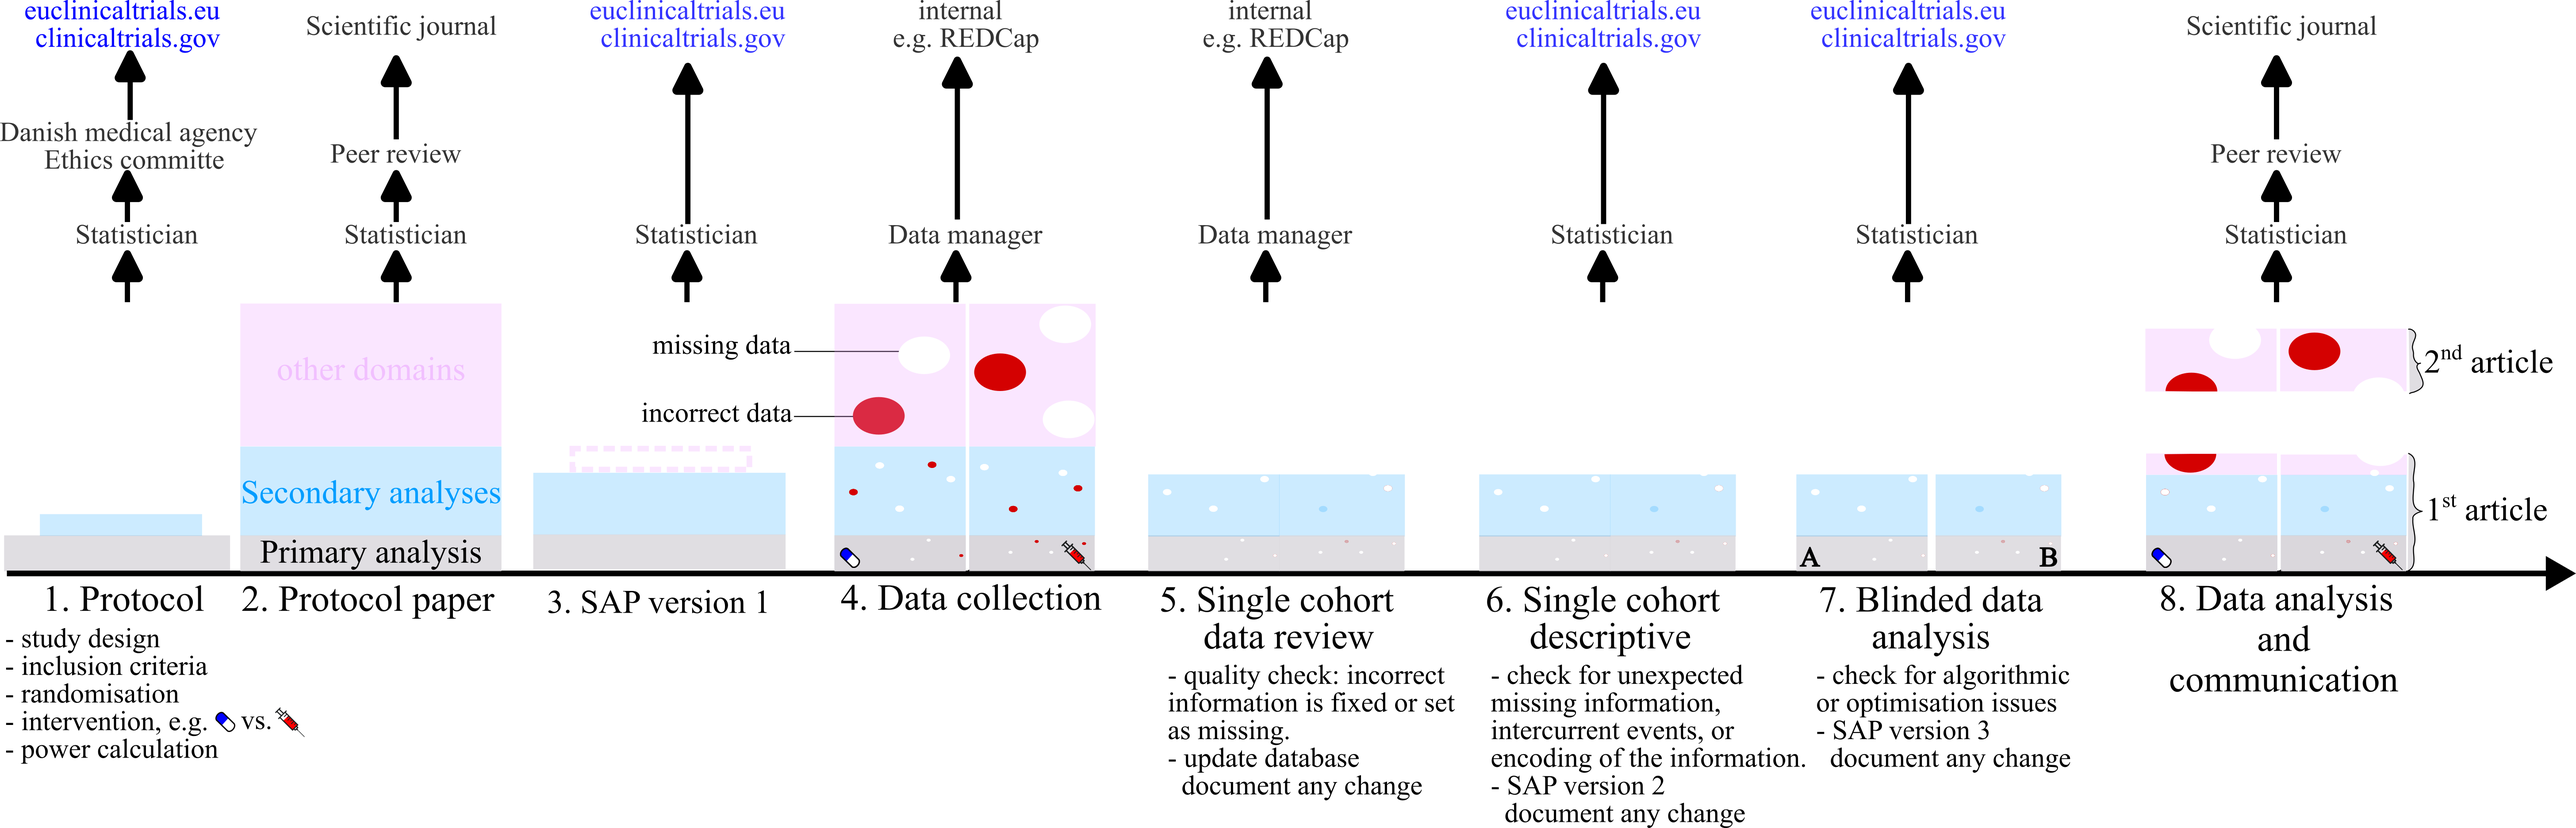
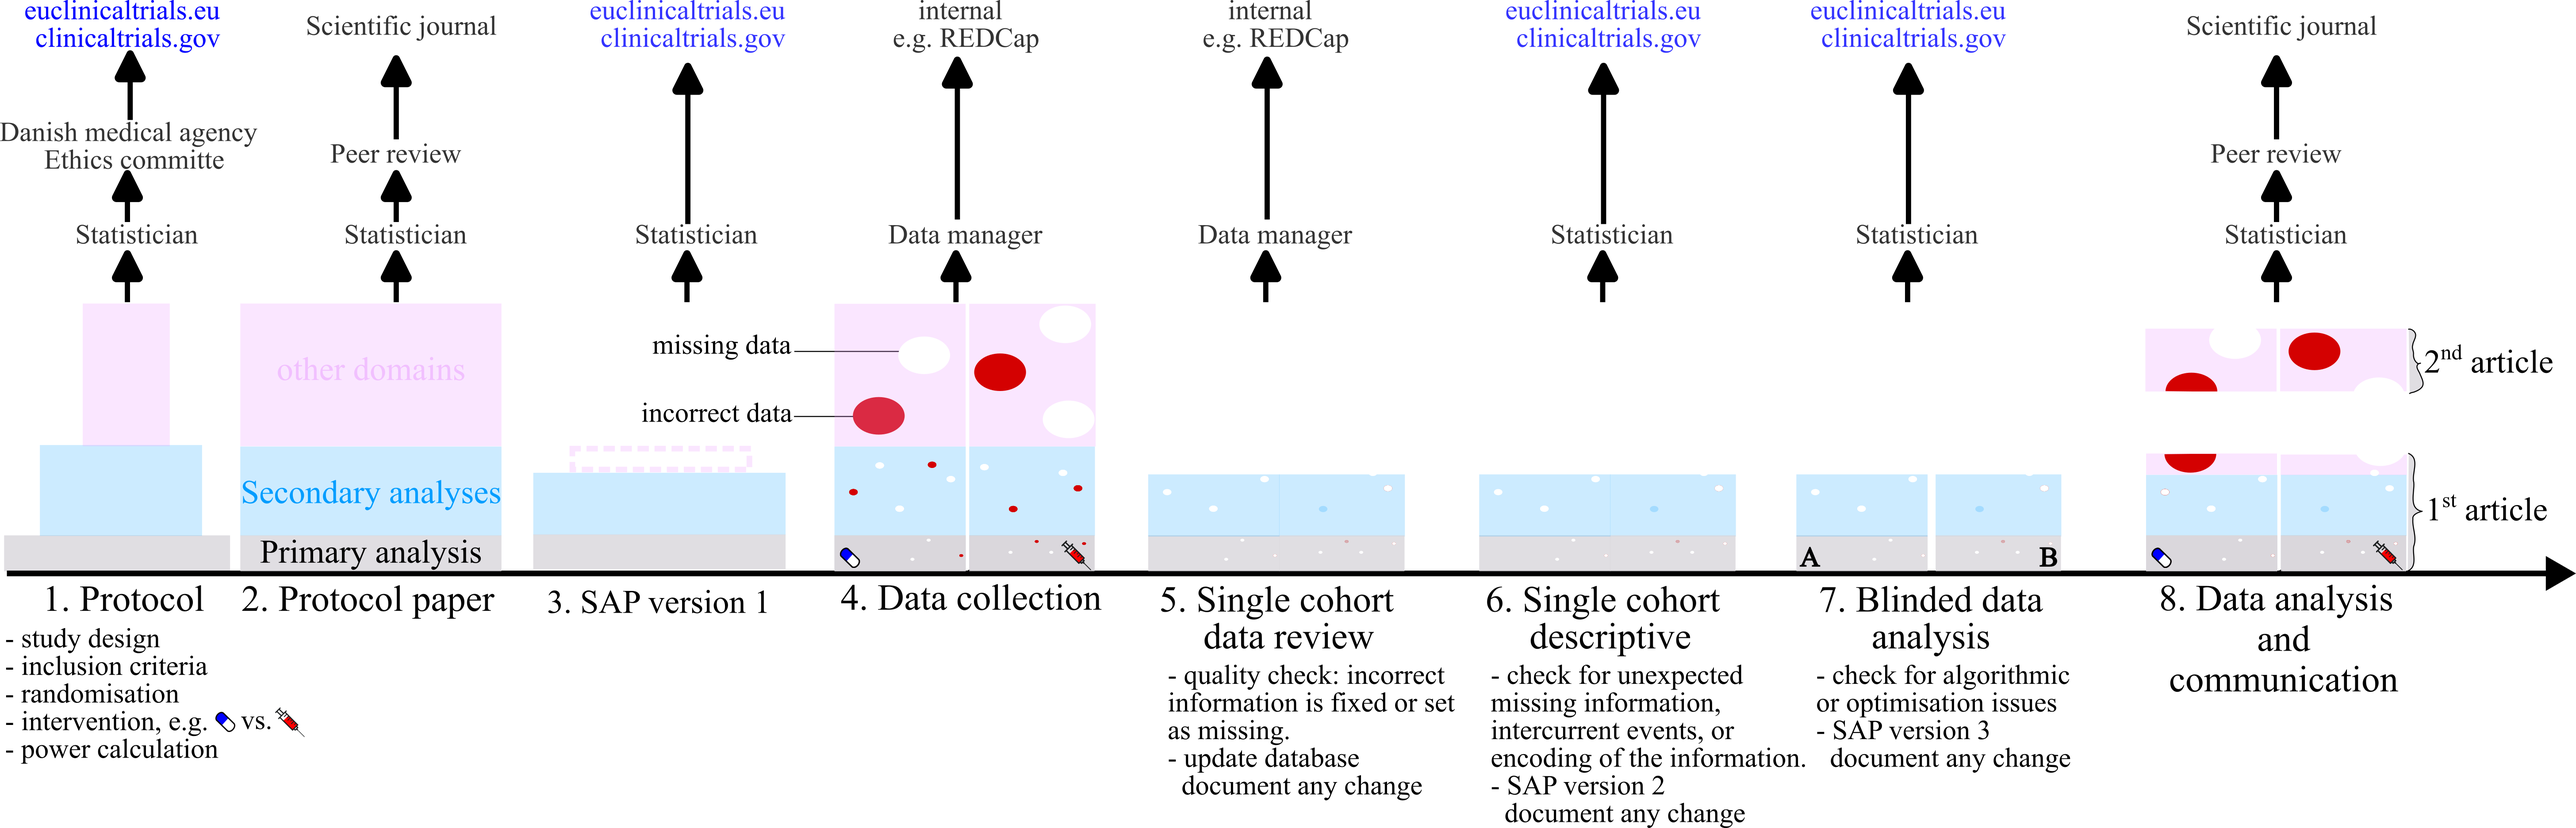
making progress on trial page

Changed region(s): [[0.0, 0.3408, 0.0938, 0.6197]]

diff --git a/Trials.md b/Trials.md
@@ -1,7 +1,7 @@
 ---
 layout: page
 title:  Randomized Clinical Trials
-excerpt: Trials
+link_title: Trials
 permalink: /Trials/
 ---
 
@@ -75,6 +75,89 @@ involvment:
 - RECAP-D: help with the protocol.
 
 
-# Guidance for trialists
+# Main steps of a trial from a statistician perspective
 
+
+The following diagram display some of the key steps of a trial:
 ![](https://bozenne.github.io/img/timeline-trial-NRU.png) 
+
+Several steps take place before any data is collected, and most before
+having access to the unblinded data. This stresses the importance of
+involving the statistician early enough. 
+> To take a culinary analogy, once you've used your ingredients to bake a cake, there is little a chef can do to 'fix' the cake.
+
+1. The first step is to write a protocol. It provides, among many
+other things, some rational for the trial, description of the study
+design including the intervention, measurement being made, and a
+statistical analysis section. Typically more details are provided for
+the main objective/primary endpoint. This can be a very long and
+technical document and my input is generally about:
+- study design: help with the choice of a design (e.g. cross-over
+  vs. parallel two-arm design, interim analyses, ...) and the sample
+  size calculation.
+- statistical analysis: decide upon an estimand that can be identified
+  based on the collected data, and a corresponding statistical
+  test. The level of details can vary depending of the experience of
+  the investigator and the complexity of the research question. But
+  this section should at the very least make it clear how one intends
+  to carry out the primary analysis - possibly in an idealized trial
+  (e.g. no drop-out, no intercurrent events). The more complex and the
+  less experienced, the higher the chance that when writting the SAP
+  one realizes that modifications in data collection procedures are
+  needed to mitigate the risk of failure of the trial.
+
+> Instead one should first discuss with the chef about the type of desert one likes, the budget, and possible allergies.
+> The chef will help plan what to buy at the market and sketch a recipe (protocol).
+> The recipe should be approved by the health authorities.
+
+2. The protocol can be re-phrased with a more scientific and research
+   focus while having fewer operational details to be published in a
+   scientific journal. 
+- the 'statistical content' is very similar as for step 1. Protocol. 
+- in my experience, investigators start to involve a statistician to
+  reply to reviewer comments. True it saves ressources (time) but it
+  can be problematic if the statistican disagrees with the design that
+  has been chosen without him onboard.
+
+> To 'brand' your new cake, it is natural to publish a trailer (protocol paper).
+> Each chef has his style (favorite technic and ingredients) so asking him to follow someone-else recipe, even very good, may not be ideal.
+
+3. The SAP is an important step for the statistican as it precisely
+   describes how to proceed. A first version should be made BEFORE
+   data collection (i) data collection is still be modifiable to
+   address a last minute difficulty concern (ii) the investigator is
+   still fully blinded so the choice of the methodology is very
+   arguably independent of the results (iii) there is often less time
+   pressure at this stage.
+- Writing a SAP is a substantial task! Expect many back and forth
+  between the reasearch team and the statistician. Its length varies
+  depending of the trial, but expect 15-30 page document.
+- Once the reasearch team and the statistician agree on a version, it
+  should be uploaded on euclinicaltrials.eu or clinicaltrials.gov to
+  have a time stamp.
+- It is generally a BAD idea to wait the end of data collection to
+  write the SAP. Often the research team is eager to analyse the data
+  and leading to (un-necessary) time pressure to finish the SAP
+  fast. It also looks more suspicious to have a late date for the
+  first SAP than a documented update of the SAP.
+- The SAP can also make clear who will do what and can serve as a
+  reference document, so the content of scientific discussions that
+  occured months or years ago are not forgotten or distorted.
+- An important part of the SAP is to anticipate problems arising
+  during data collection (e.g. missing data or not usuable data due to
+  intercurrent events)
+
+> To be efficient when baking cake, a step by step recipe is to be decided (SAP).
+> Each step should be precise enough so there is no ambiguity in what should be done.
+> This is especially important when several people are involved, from different domain, with different level of experience. 
+> How to cut an oignon may be obvious for one person but not for another!
+
+4. During data collection, some (possibly anticipated) difficulties arise:
+- missing data, e.g. due to patient drop-out or technical failures.
+- incorrect data, e.g. due to typos or an instrument incorrectly calibrated.
+- different data encoding, e.g. depression status at the last phone
+  call instead of as a time to event variable/daily monitoring.
+> When buying the food at the market you may not find exactly what you want 
+> or not realized that you have bought the wrong ingredient or one that is spoiled.
+
+5. 

diff --git a/Consultation.md b/Consultation.md
@@ -1,7 +1,7 @@
 ---
 layout: post
-title:  "Statistical consultations at NRU"
-excerpt: "Consultations"
+title:  "NRU consultations"
+link_title: "Consultations"
 categories: jekyll update
 ---
 
